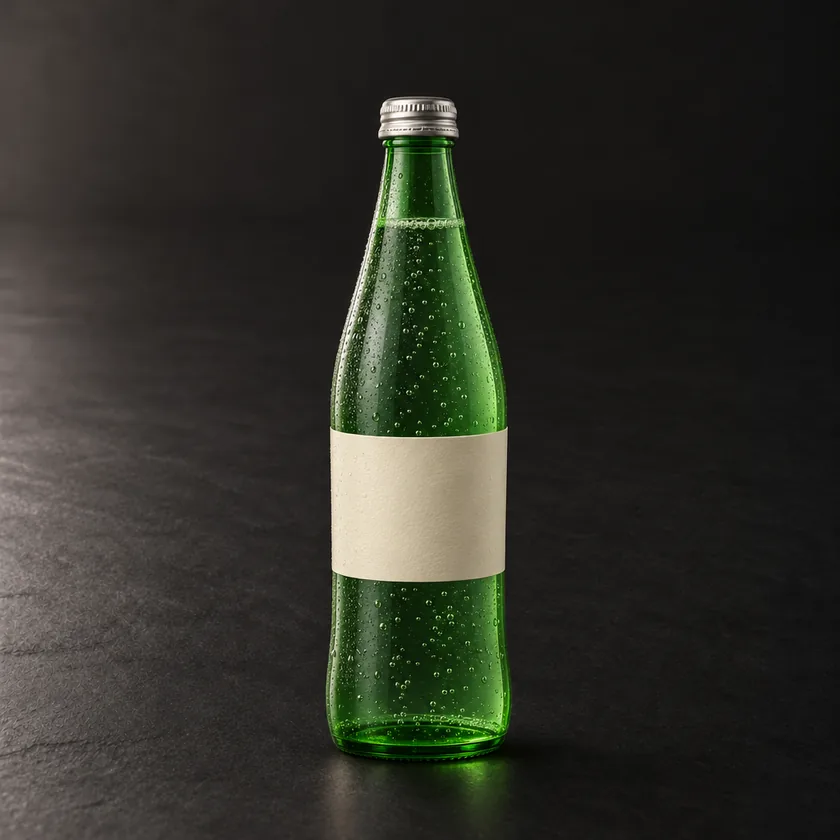
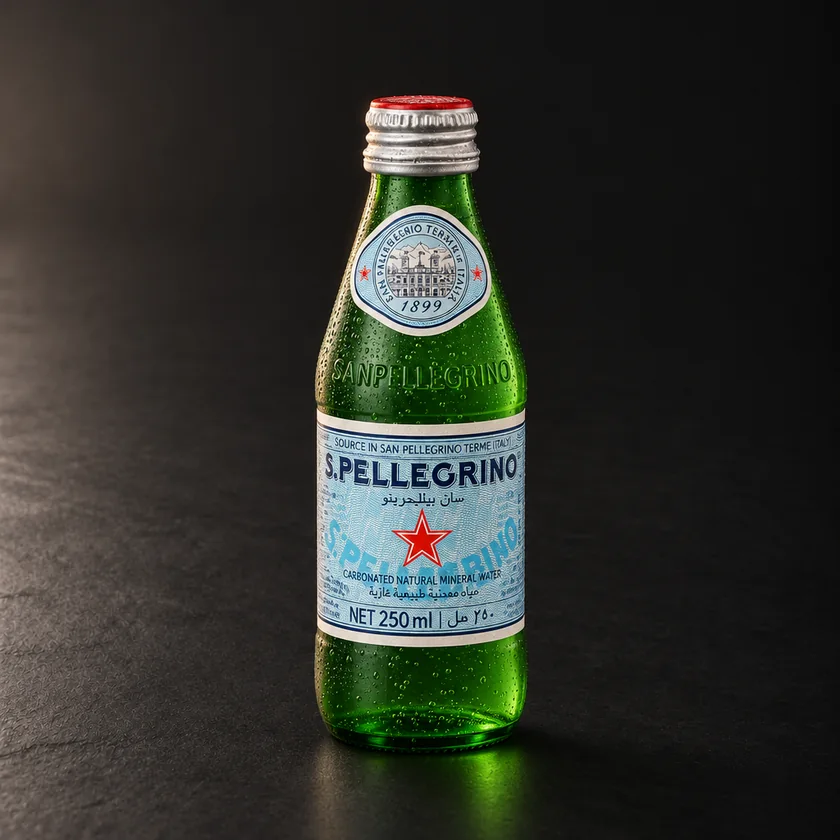
Real water brands: Acqua Panna and S.Pellegrino
- Studio shots of the restaurant's own bottles (Higgsfield, from staff photos)
- Water and Sparkling Water now name the brand and size

Claude-Session: https://claude.ai/code/session_01593DdNt4ohMA5XQcDxVyGY

Changed region(s): [[0.3714, 0.0929, 0.65, 1.0], [0.0, 0.7738, 0.1238, 0.8976]]

diff --git a/index.html b/index.html
@@ -409,8 +409,8 @@ const ITEMS=[
  {c:"appetizers",s:1,g:"m",sn:["Special","خاص"],img:"special-sauce",p:5,n:["Special Sauce","صوص خاص"]},
  {c:"appetizers",s:1,g:"m",sn:["Honey Mustard","عسل وخردل"],img:"honey-mustard",p:5,n:["Honey Mustard","صوص العسل والخردل"]},
  {c:"drinks",img:"soft-drinks",p:8,n:["Soft Drinks","مشروبات غازية"],d:["Pepsi, Diet Pepsi, 7UP, 7UP Free or Mirinda Orange.","بيبسي، بيبسي دايت، سفن أب، سفن أب فري أو ميرندا برتقال."]},
- {c:"drinks",img:"water",p:8,n:["Water","مياه"]},
- {c:"drinks",img:"sparkling-water",p:11,n:["Sparkling Water","مياه غازية"]}
+ {c:"drinks",img:"water",p:8,n:["Water","مياه"],d:["Acqua Panna still natural mineral water, 500 ml.","مياه أكوا بانا المعدنية الطبيعية، 500 مل."]},
+ {c:"drinks",img:"sparkling-water",p:11,n:["Sparkling Water","مياه غازية"],d:["S.Pellegrino sparkling natural mineral water, 250 ml.","مياه سان بيلليجرينو المعدنية الغازية، 250 مل."]}
 ];
 const RM=matchMedia("(prefers-reduced-motion:reduce)").matches;
 const TABLET=location.hash==="#tablet";
